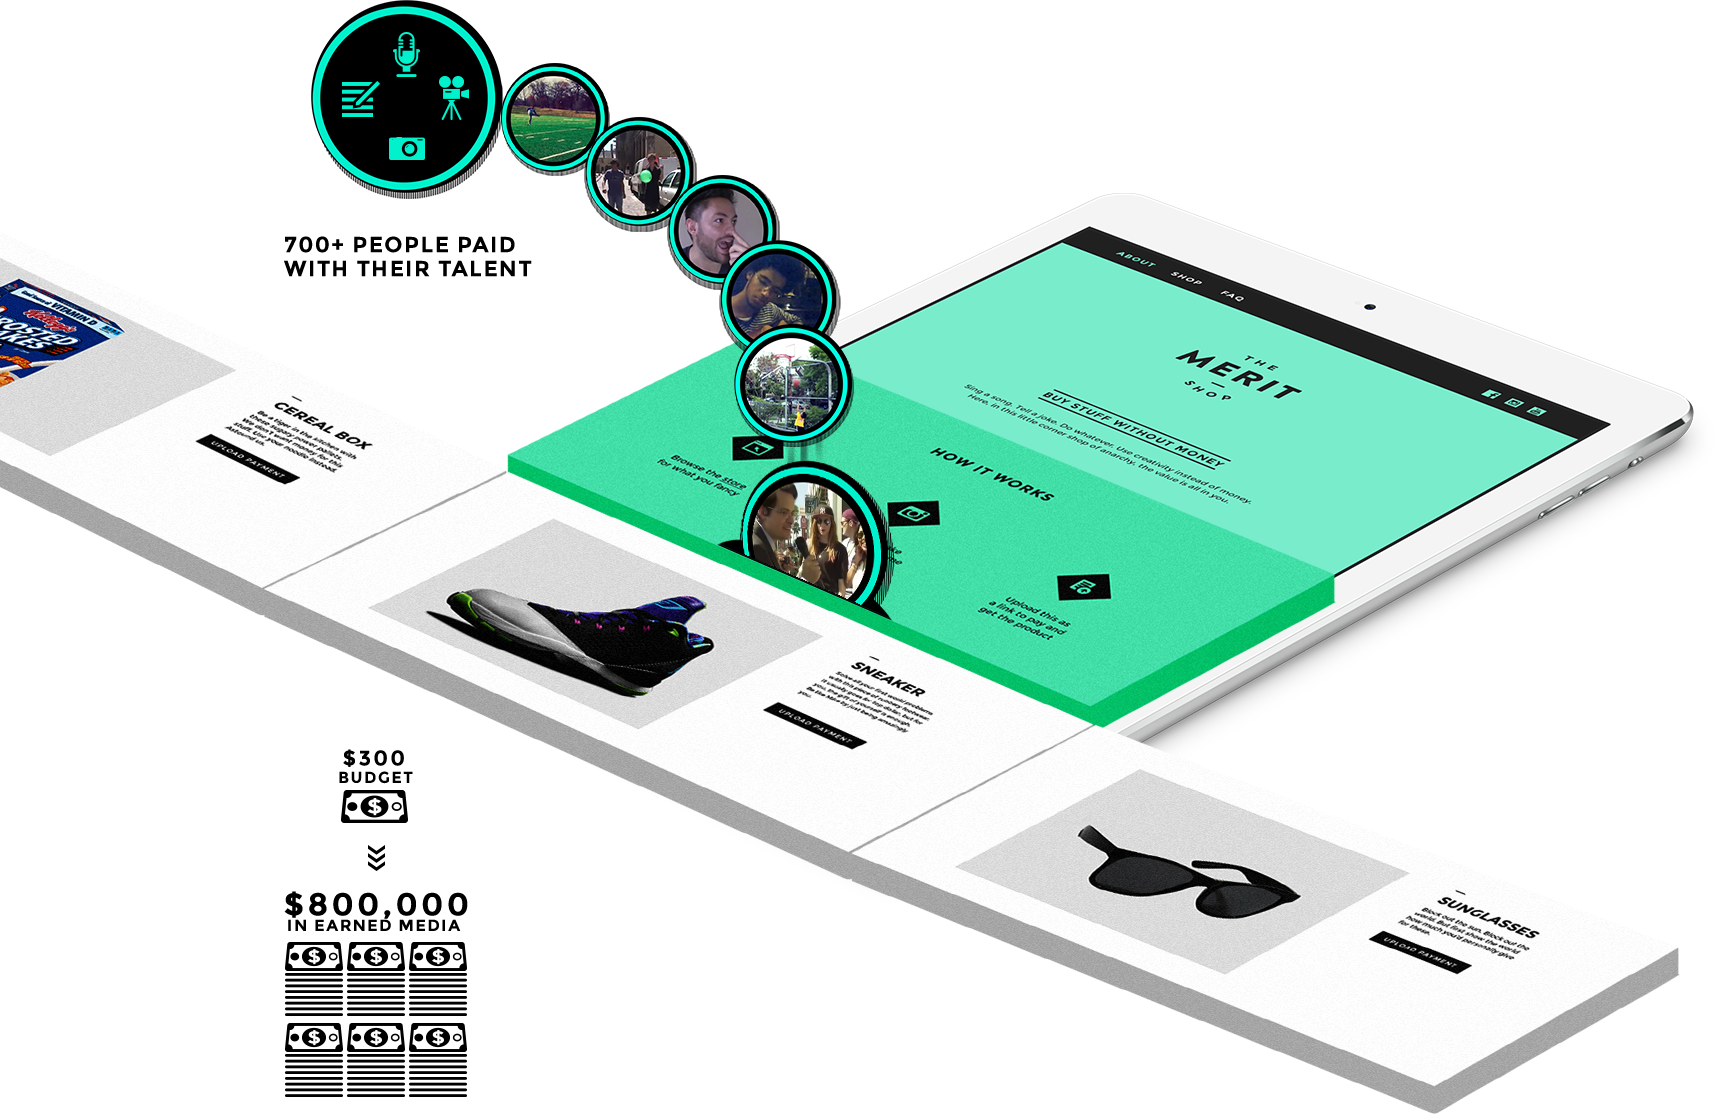
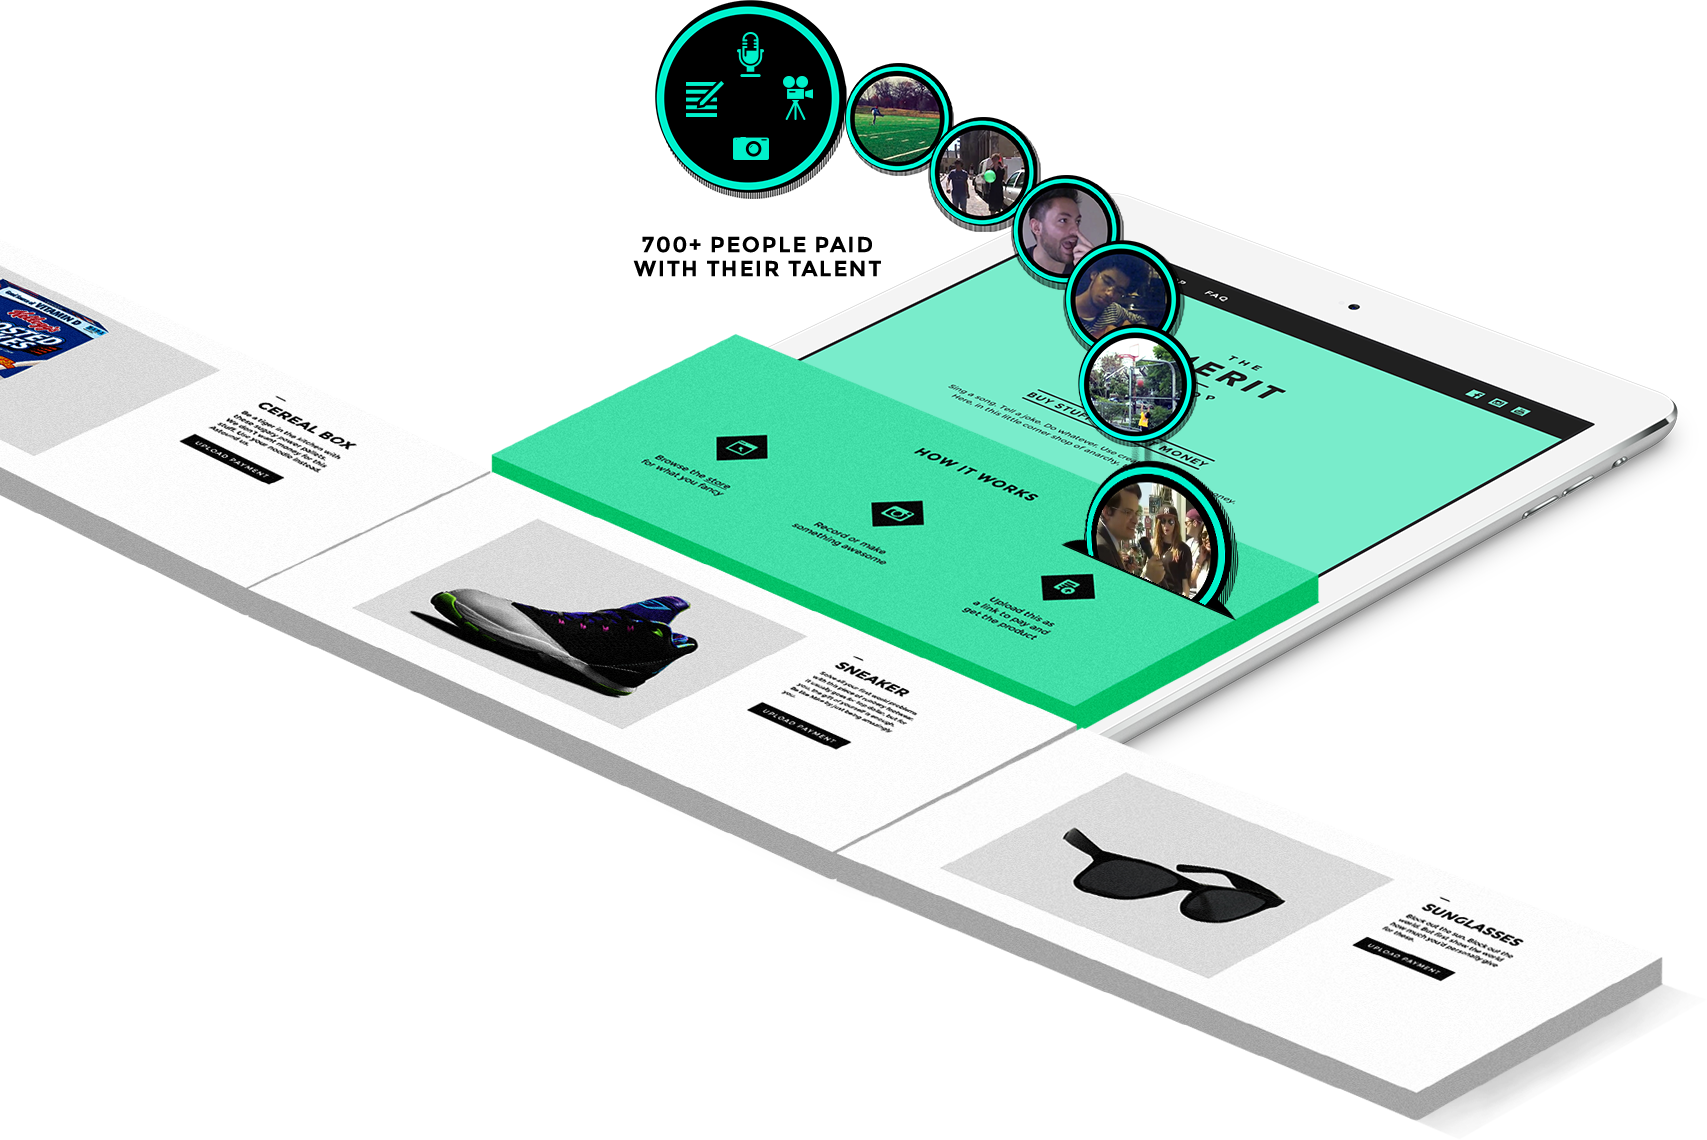
fix(general): fix issues. feature(bottom): update to use new layout

diff --git a/app/assets/stylesheets/base/award.sass b/app/assets/stylesheets/base/award.sass
@@ -7,6 +7,8 @@
 //-----------------------------------------------------------------------
 
 .award-page
+  body
+    background: #78ebca
   .main-header
     background: $green
     text-align: center
@@ -26,6 +28,7 @@
     left: 50%
     width: 360px
     margin-left: -180px
+    margin-top: -116px
     text-align: center
     z-index: 2
     h1
@@ -108,6 +111,7 @@
     line-height: 1.14em
     text-transform: uppercase
     letter-spacing: 0.4px
+    text-align: center
   h2
     +border-radius(100%)
     text-indent: -9999em
@@ -404,24 +408,37 @@
 
 .bottom
   width: 100%
-  height: 1146px
   background: #78ebca
-  position: relative
   padding-top: 4px
   .ipad
     width: 100%
     position: absolute
     left: -150px
-    top: -30px
+    top: -355px
+  .ipad-block
+    height: 595px
+    width: 100%
+    position: relative
+  .container.visit
+    position: relative
+    height: 200px
+  .money
+    display: block
+    margin: 0 auto
 
 .bottom-wrapper
-  height: 400px
   background: #a1f1da
   width: 724px
   margin: 0 auto
-  padding-top: 150px
+  padding-top: 105px
+  padding-bottom: 500px
 
 .visit-website
   position: absolute
-  top: 520px
-  right: 40px
+  top: -130px
+  right: 190px
+
+
+
+
+

diff --git a/app/assets/stylesheets/base/settings.sass b/app/assets/stylesheets/base/settings.sass
@@ -50,7 +50,8 @@ $grid-padding  : 0px
 
 //  General Config
 $small-elements-spacing: 25px
-$companies-layout: smart
+$companies-spacing: 10px
+// $companies-layout: smart
 $quotes-layout: smart
 
 // Construct map
